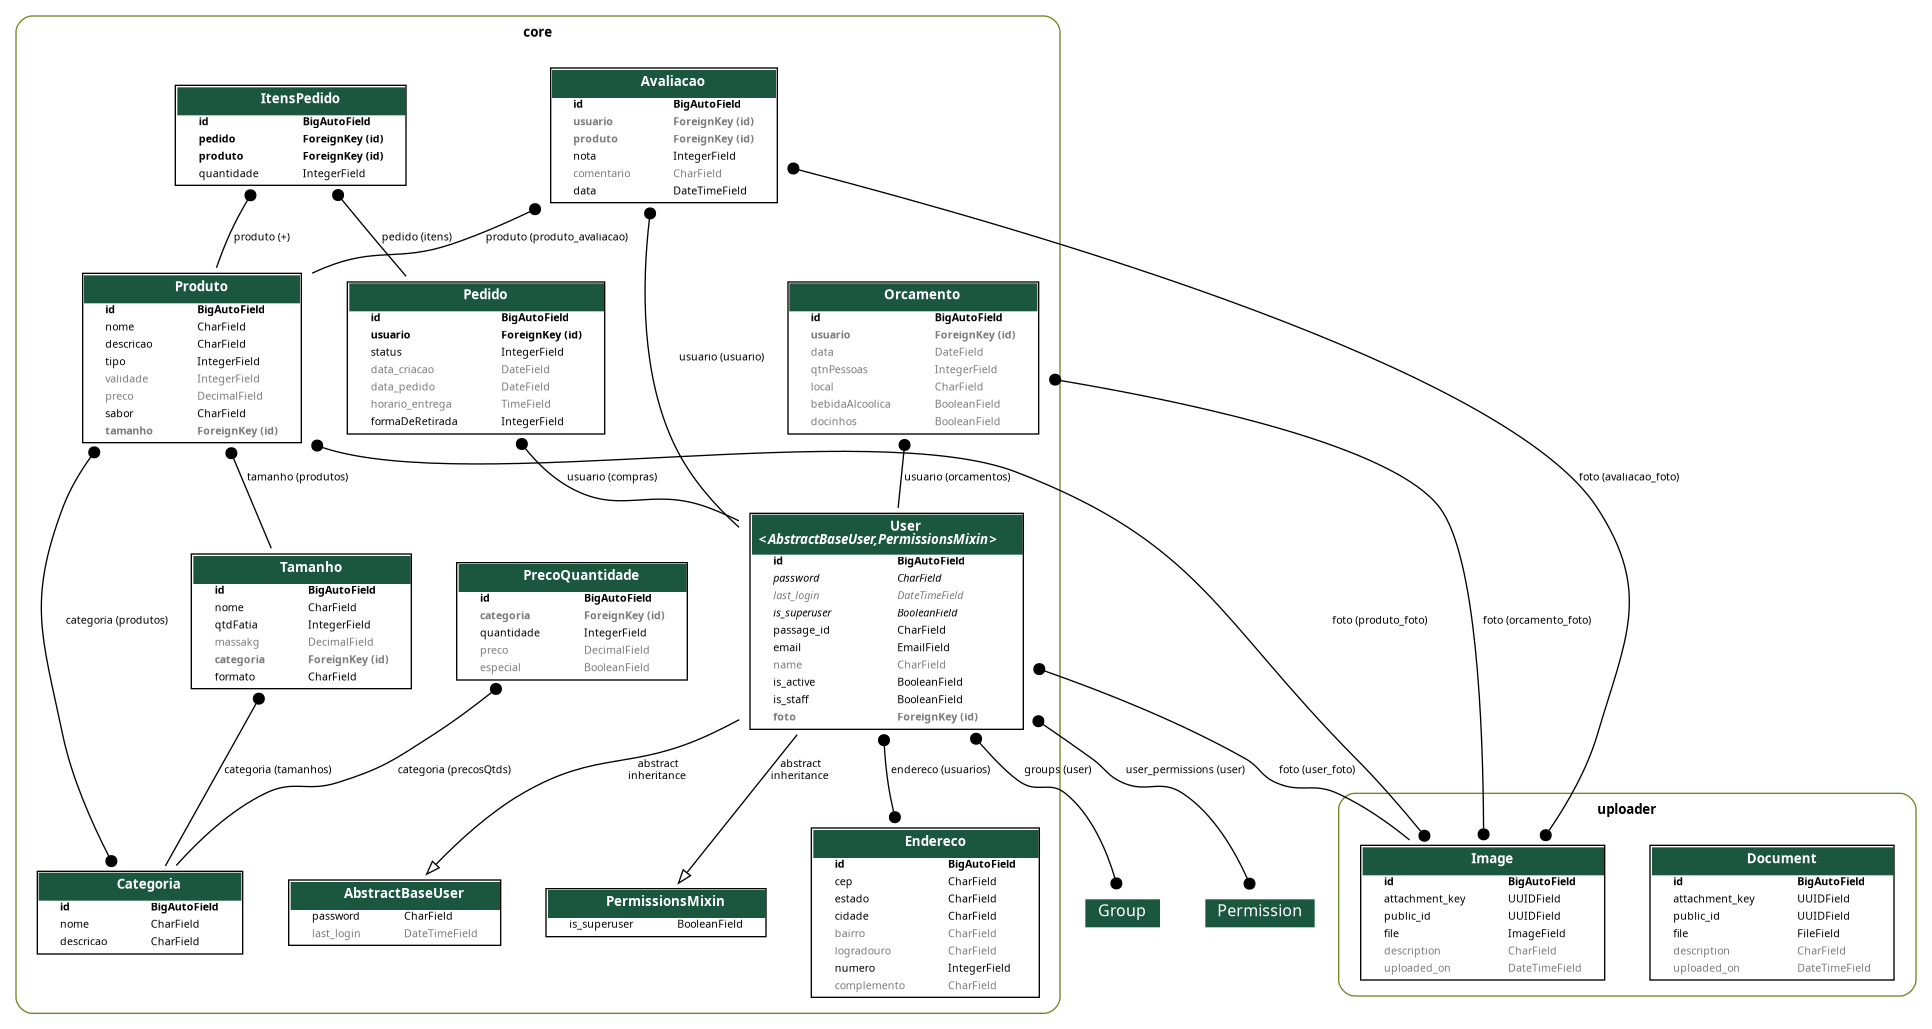
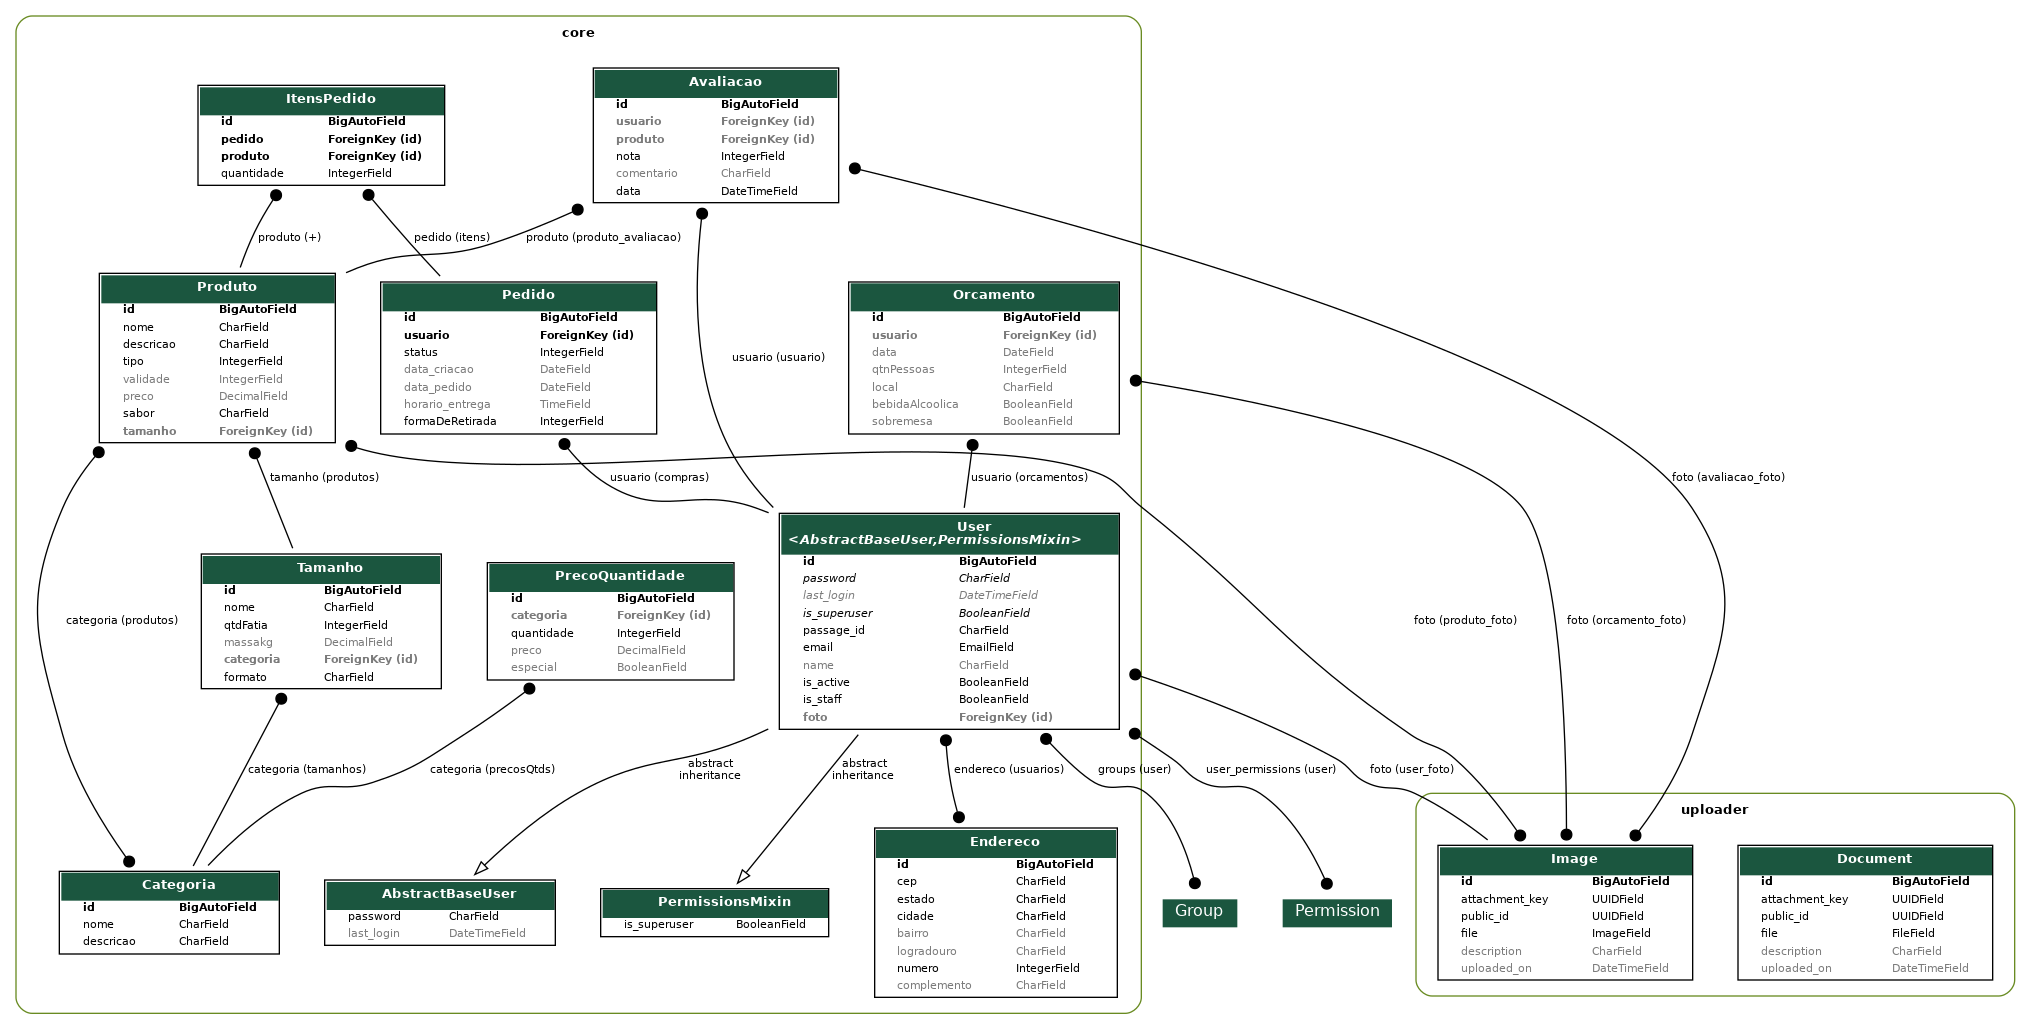
Feat: Arrumado #38

diff --git a/core/models/orcamento.py b/core/models/orcamento.py
@@ -8,7 +8,7 @@ class Orcamento(models.Model):
     qtnPessoas = models.IntegerField(default=0,null=True, blank=True)
     local = models.CharField(max_length=10,null=True, blank=True)
     bebidaAlcoolica = models.BooleanField(null=True, blank=True)
-    docinhos = models.BooleanField(null=True, blank=True)
+    sobremesa = models.BooleanField(null=True, blank=True)
     foto = models.ManyToManyField(
         Image,
         related_name="orcamento_foto",

diff --git a/core/migrations/0030_rename_docinhos_orcamento_sobremesa.py b/core/migrations/0030_rename_docinhos_orcamento_sobremesa.py
@@ -1,0 +1,18 @@
+# Generated by Django 5.2.3 on 2025-10-13 17:29
+
+from django.db import migrations
+
+
+class Migration(migrations.Migration):
+
+    dependencies = [
+        ('core', '0029_alter_pedido_data_criacao'),
+    ]
+
+    operations = [
+        migrations.RenameField(
+            model_name='orcamento',
+            old_name='docinhos',
+            new_name='sobremesa',
+        ),
+    ]
